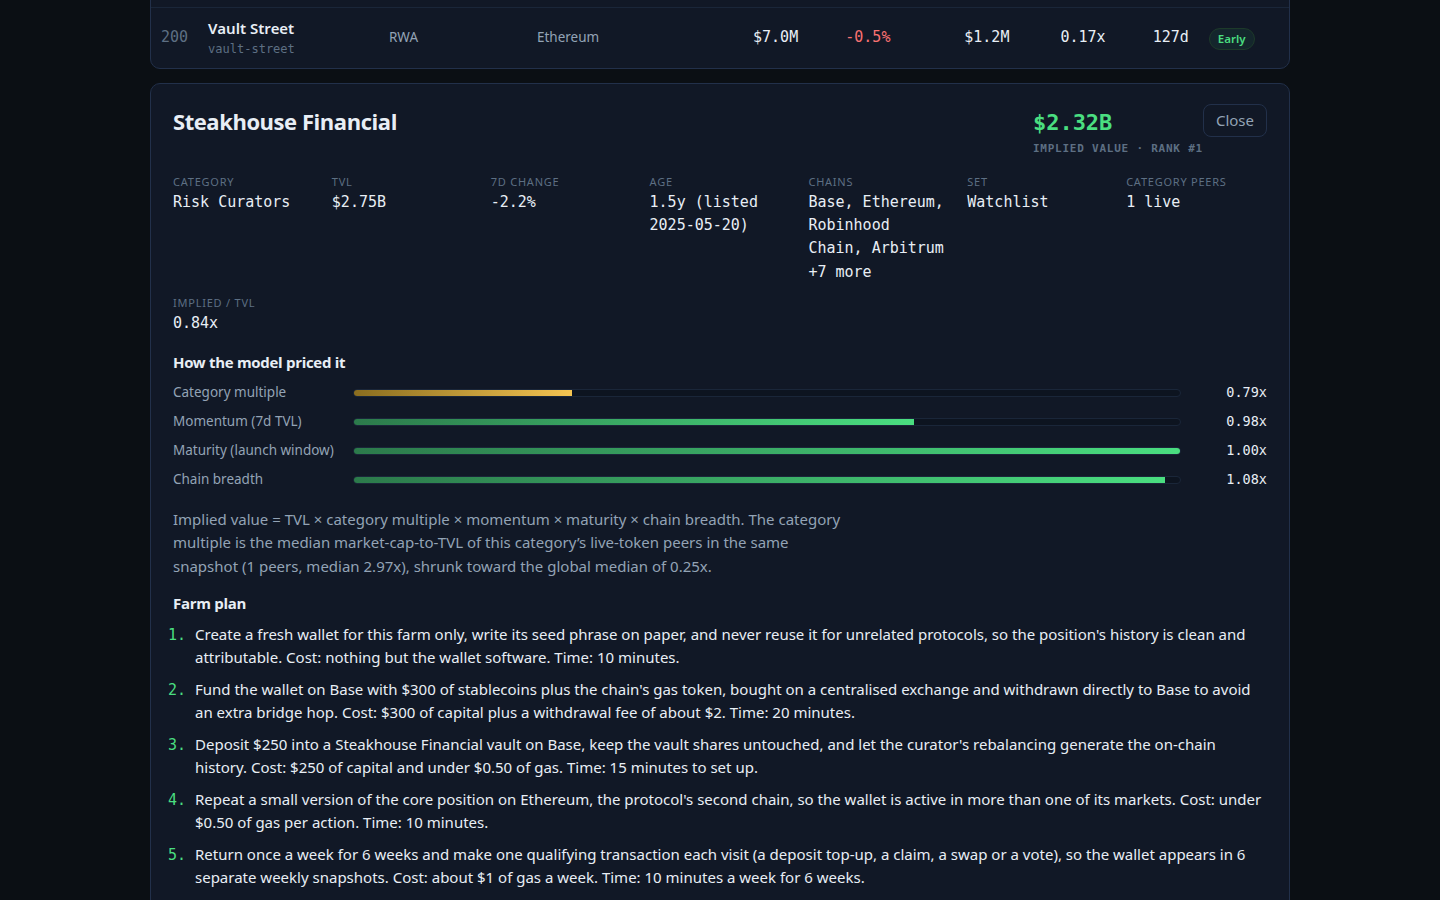
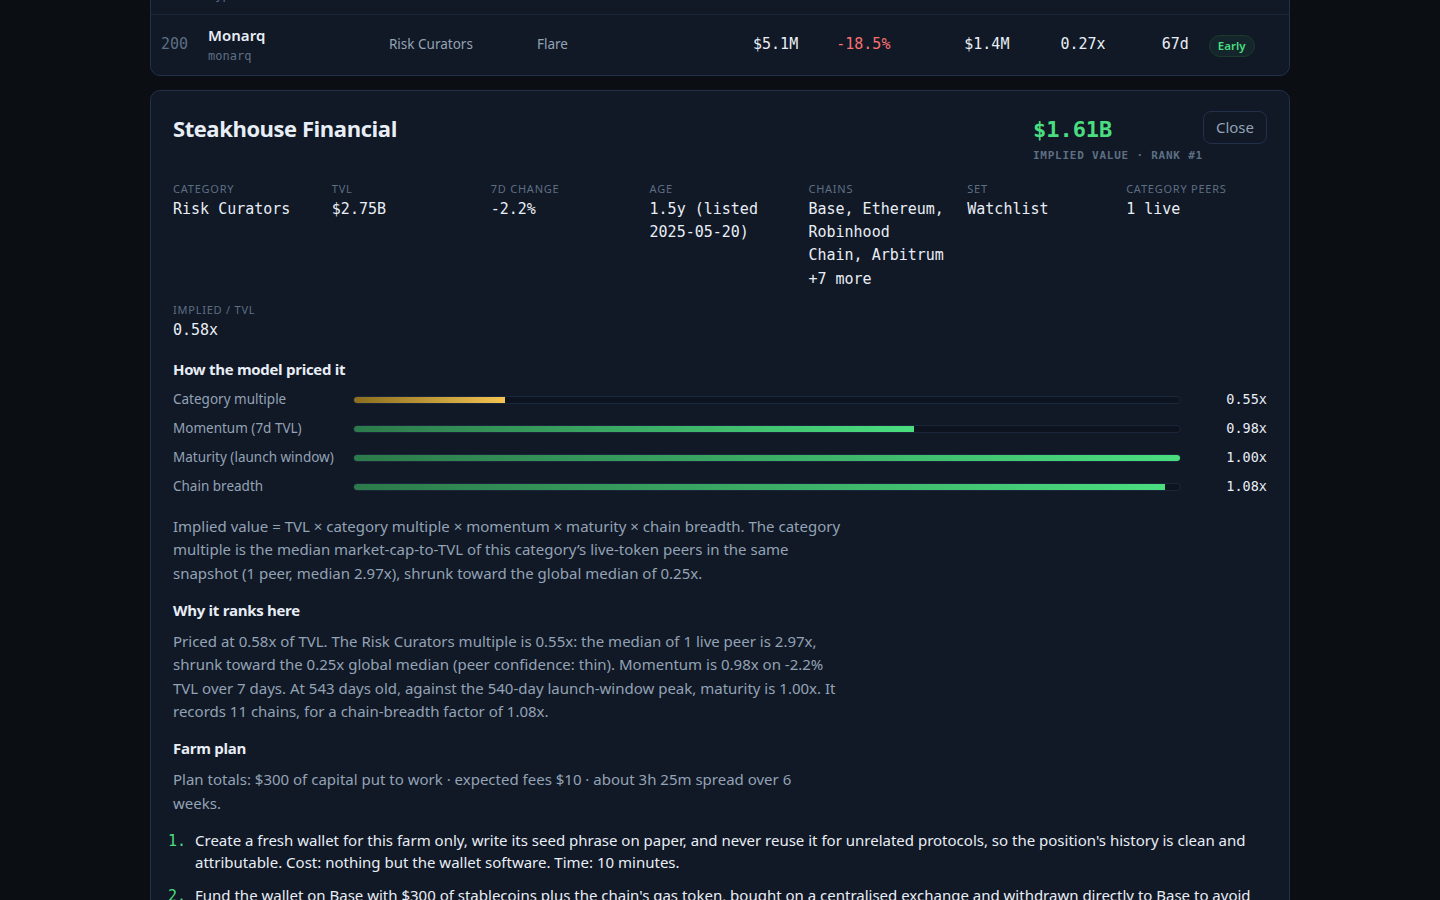
radar-3: confidence-weighted category multiples, per-row why, farm plan totals

diff --git a/lib/model.ts b/lib/model.ts
@@ -1,12 +1,14 @@
-// Token Radar model "radar-2": one sealed snapshot in, one ranked board out.
+// Token Radar model "radar-3": one sealed snapshot in, one ranked board out.
 //
 // Where the house model multiplies every protocol's TVL by one flat constant, this model prices a
 // pre-token protocol the way the snapshot's own market prices its peers:
 //
 //   multiple   = the price-to-TVL multiple of the protocol's category, read off the snapshot's
 //                live-token protocols (median market cap / TVL per category), shrunk toward the
-//                snapshot-wide median when a category has few live peers, so a thin category
-//                cannot produce a wild multiple
+//                snapshot-wide median by the peer count, so a thin category cannot produce a
+//                wild multiple. radar-3 shrinks harder than radar-2 did (k = 8, not 4): a
+//                category priced by a single live peer is a rumour, not a market, and the board
+//                now says so on every row, with the peer count and a confidence word
 //   momentum   = 1 + MOMENTUM_WEIGHT x tanh(change_7d / MOMENTUM_SCALE): a saturating read of the
 //                week's TVL growth, so one freak week cannot dominate the board
 //   maturity   = a log-normal bump peaking at MATURITY_PEAK_DAYS: old enough to be proven, young
@@ -14,6 +16,11 @@
 //                with no token scores lower than one in the launch window, not higher
 //   chainBonus = 1 + CHAIN_BONUS x min(extra chains, 4): a small premium for multi-chain traction
 //   implied    = max(1, round(tvl x multiple x momentum x maturity x chainBonus))
+//
+// Every row also carries the model's working in words (why it ranks where it ranks, from its own
+// four factors and its category's peer count) and its farm plan's totals (capital the plan
+// deploys, the fees it expects to burn, the hours it takes), so a reader never has to take a
+// rank, or a plan, on faith.
 //
 // Every input is a field of the sealed snapshot. No protocol name, slug or category string is ever
 // special-cased in the scoring: the same code path prices every row, and the per-category figures
@@ -67,7 +74,7 @@ export interface ModelConstants {
 }
 
 export const MODEL: ModelConstants = {
-  shrink_k: 4,
+  shrink_k: 8,
   momentum_weight: 0.45,
   momentum_scale: 60,
   maturity_peak_days: 540,
@@ -80,7 +87,7 @@ export const MODEL: ModelConstants = {
 };
 
 /** The model's version label: the dashboard names it and the board rows carry it. */
-export const MODEL_VERSION = 'radar-2';
+export const MODEL_VERSION = 'radar-3';
 
 /** One category's live-peer statistics, computed from the snapshot at run time. */
 export interface CategoryStat {
@@ -95,6 +102,13 @@ export interface FarmStep {
   text: string;
   cost: string;
   time: string;
+}
+
+/** A farm plan's totals: the capital it deploys, the fees it expects to burn, the time it takes. */
+export interface FarmTotal {
+  capital_usd: number;
+  est_fees: string;
+  total_time: string;
 }
 
 /** One row of board.json: the ranked board's row, with the model's working shown. */
@@ -123,7 +137,9 @@ export interface BoardRow {
     maturity_multiplier: number;
     chain_multiplier: number;
   };
+  why: string;
   farm_steps: string[];
+  farm_total: FarmTotal;
 }
 
 /** The dashboard's view of one board row: everything the page renders or recomputes. */
@@ -144,7 +160,9 @@ export interface RadarRow {
   momentum_multiplier: number;
   maturity_multiplier: number;
   chain_multiplier: number;
+  why: string;
   farm_steps: string[];
+  farm_total: FarmTotal;
 }
 
 /** A live-token protocol: it already trades, so the page shows the market's own value. */
@@ -292,6 +310,72 @@ function bySlug(protocols: SnapshotProtocol[]): Map<string, SnapshotProtocol> {
   return new Map(protocols.map((p) => [p.slug, p]));
 }
 
+/** A multiple the way the dashboard prints it: two decimals and an x. */
+const mult2 = (n: number): string => `${n.toFixed(2)}x`;
+
+/** A signed percent with one decimal, the way the dashboard prints a 7d change. */
+const pct1 = (n: number): string => `${n > 0 ? '+' : ''}${n.toFixed(1)}%`;
+
+/** How far a category's own multiple can be trusted, from its live-peer count alone. */
+export function confidenceWord(liveCount: number): string {
+  if (liveCount <= 0) return 'none';
+  if (liveCount <= 2) return 'thin';
+  if (liveCount <= 5) return 'fair';
+  return 'solid';
+}
+
+/**
+ * Why a row ranks where it ranks, in words, from its own four factors and its category's peer
+ * count. Nothing here is looked up by name: the same template reads every row's own figures.
+ */
+export function whyText(
+  p: SnapshotProtocol,
+  priced: Priced,
+  multiples: { global: number; stats: CategoryStat[]; used: Map<string, number> },
+  model: ModelConstants,
+): string {
+  const parts: string[] = [];
+  const effective = p.tvl_usd > 0 ? priced.implied / p.tvl_usd : 0;
+  parts.push(`Priced at ${mult2(effective)} of TVL.`);
+  const stat = p.category === null ? undefined : multiples.stats.find((s) => s.category === p.category);
+  if (p.category === null || stat === undefined) {
+    parts.push(`Its category records no live-token peers in this snapshot, so it is priced at the global median multiple of ${mult2(multiples.global)}.`);
+  } else {
+    parts.push(
+      `The ${p.category} multiple is ${mult2(priced.categoryMultiple)}: the median of ${stat.live_count} live peer${stat.live_count === 1 ? '' : 's'} is ${mult2(stat.median_multiple)}, ` +
+        `shrunk toward the ${mult2(multiples.global)} global median (peer confidence: ${confidenceWord(stat.live_count)}).`,
+    );
+  }
+  if (p.change_7d === null) {
+    parts.push(`No 7d TVL change is recorded, so momentum is neutral at ${mult2(priced.momentumMult)}.`);
+  } else {
+    parts.push(`Momentum is ${mult2(priced.momentumMult)} on ${pct1(p.change_7d)} TVL over 7 days.`);
+  }
+  if (priced.age === null) {
+    parts.push(`No listing date is recorded, so maturity is priced at the assumed ${model.unknown_age_days} days: ${mult2(priced.maturityMult)}.`);
+  } else {
+    parts.push(`At ${priced.age} days old, against the ${model.maturity_peak_days}-day launch-window peak, maturity is ${mult2(priced.maturityMult)}.`);
+  }
+  parts.push(`It records ${p.chains.length} chain${p.chains.length === 1 ? '' : 's'}, for a chain-breadth factor of ${mult2(priced.chainMult)}.`);
+  return parts.join(' ');
+}
+
+/**
+ * A farm plan's totals, from the same figures its steps are priced with: the capital the plan
+ * puts to work (position plus funding buffer), the fees its transactions are expected to burn
+ * (withdrawal, setup, the weekly visits, the two-tranche unwind), and the hours it takes.
+ */
+export function farmTotals(p: SnapshotProtocol, age: number | null): FarmTotal {
+  const capital = capitalFor(p);
+  const weeks = weeksFor(age);
+  const mainnet = isMainnet(chainOf(p));
+  const low = Math.round((mainnet ? 5 : 2) + (mainnet ? 5 : 0.5) + (mainnet ? 8 : 1) * weeks + (mainnet ? 10 : 1));
+  const high = Math.round((mainnet ? 5 : 2) + (mainnet ? 15 : 0.5) + (mainnet ? 8 : 1) * weeks + (mainnet ? 30 : 1));
+  const minutes = 55 + 20 * weeks + 30;
+  const time = minutes >= 60 ? `about ${Math.floor(minutes / 60)}h ${minutes % 60 === 0 ? '' : `${minutes % 60}m `}spread over ${weeks} weeks` : `about ${minutes}m spread over ${weeks} weeks`;
+  return { capital_usd: capital + 50, est_fees: low === high ? `$${low}` : `$${low} to $${high}`, total_time: time.trim() };
+}
+
 /** The protocols the board ranks, strongest first, with ranks 1..n. */
 export function buildBoard(snapshot: Snapshot, model: ModelConstants = MODEL): BoardRow[] {
   const index = bySlug(snapshot.protocols);
@@ -343,6 +427,8 @@ export function buildBoard(snapshot: Snapshot, model: ModelConstants = MODEL): B
       chain_multiplier: round4(s.priced.chainMult),
     },
     farm_steps: farmSteps(s.p, s.priced.age).map(stepText),
+    why: whyText(s.p, s.priced, multiples, model),
+    farm_total: farmTotals(s.p, s.priced.age),
   }));
 }
 
@@ -514,7 +600,9 @@ export function radarRow(row: BoardRow): RadarRow {
     momentum_multiplier: row.model.momentum_multiplier,
     maturity_multiplier: row.model.maturity_multiplier,
     chain_multiplier: row.model.chain_multiplier,
+    why: row.why,
     farm_steps: row.farm_steps,
+    farm_total: row.farm_total,
   };
 }
 

diff --git a/dashboard/app.js b/dashboard/app.js
@@ -1,4 +1,4 @@
-// Token Launch Radar dashboard (model radar-2).
+// Token Launch Radar dashboard (model radar-3).
 //
 // Reads window.RADAR from ../data.js (written by main.ts beside dashboard/) and renders three
 // views: the ranked board with filters and a per-protocol detail panel, the live-token peer set
@@ -252,10 +252,19 @@
     panel.appendChild(el('p', { class: 'view-note', text:
       'Implied value = TVL \u00D7 category multiple \u00D7 momentum \u00D7 maturity \u00D7 chain breadth. ' +
       'The category multiple is the median market-cap-to-TVL of this category\u2019s live-token peers in the same snapshot' +
-      (cat ? ' (' + cat.live_count + ' peers, median ' + fmtMult(cat.median_multiple) + ')' : '') +
+      (cat ? ' (' + cat.live_count + ' peer' + (cat.live_count === 1 ? '' : 's') + ', median ' + fmtMult(cat.median_multiple) + ')' : '') +
       ', shrunk toward the global median of ' + fmtMult(DATA.global_multiple) + '.' }));
+    if (row.why) {
+      panel.appendChild(el('h3', { text: 'Why it ranks here' }));
+      panel.appendChild(el('p', { class: 'view-note', text: row.why }));
+    }
 
     panel.appendChild(el('h3', { text: 'Farm plan' }));
+    if (row.farm_total) {
+      panel.appendChild(el('p', { class: 'view-note', text:
+        'Plan totals: ' + fmtUsd(row.farm_total.capital_usd) + ' of capital put to work \u00B7 expected fees ' +
+        row.farm_total.est_fees + ' \u00B7 ' + row.farm_total.total_time + '.' }));
+    }
     var list = el('ol', { class: 'farm' });
     row.farm_steps.forEach(function (s) { list.appendChild(el('li', { text: s })); });
     panel.appendChild(list);
@@ -287,7 +296,7 @@
     formula.innerHTML = 'implied = TVL &times; <span class="hl">category multiple</span> &times; <span class="hl">momentum</span> &times; <span class="hl">maturity</span> &times; <span class="hl">chain breadth</span>';
     box.appendChild(formula);
     var cards = [
-      ['Category multiple', 'The snapshot\u2019s live-token protocols are the market\u2019s own answer to \u201Cwhat is a dollar of TVL worth here?\u201D For each category the model takes the median market-cap-to-TVL of its live peers, then shrinks it toward the global median (' + fmtMult(DATA.global_multiple) + ') by the peer count, so a category with two peers cannot set a wild price. Capped between 0.05x and 3x.'],
+      ['Category multiple', 'The snapshot\u2019s live-token protocols are the market\u2019s own answer to \u201Cwhat is a dollar of TVL worth here?\u201D For each category the model takes the median market-cap-to-TVL of its live peers, then shrinks it toward the global median (' + fmtMult(DATA.global_multiple) + ') with a strength of ' + MODEL.shrink_k + ' phantom peers, so a category priced by one or two peers cannot set a wild price. Every row states its peer count and a confidence word (thin, fair, solid), and its detail view shows the shrinkage in words. Capped between 0.05x and 3x.'],
       ['Momentum', 'One week of TVL growth, passed through a saturating curve: 1 + ' + MODEL.momentum_weight + ' \u00D7 tanh(change / ' + MODEL.momentum_scale + '). A protocol doubling in a week earns most of the +' + Math.round(MODEL.momentum_weight * 100) + '% swing; a protocol up 400% earns barely more, so a single freak week cannot buy the top of the board.'],
       ['Maturity', 'A log-normal bump peaking at ' + MODEL.maturity_peak_days + ' days. Younger protocols are unproven; much older ones have had years to launch and have not, which is itself information. The floor is ' + MODEL.maturity_floor + 'x, so age alone never zeroes a row. Unknown listing dates are priced at ' + MODEL.unknown_age_days + ' days.'],
       ['Chain breadth', '+' + Math.round(MODEL.chain_bonus * 100) + '% per additional chain, up to four. Multi-chain traction is a weak but real signal that a protocol is winning distribution, priced small enough that it breaks ties rather than making them.'],

diff --git a/dashboard/index.html b/dashboard/index.html
@@ -3,7 +3,7 @@
 <head>
 <meta charset="utf-8">
 <meta name="viewport" content="width=device-width, initial-scale=1">
-<title>Token Launch Radar — radar-2</title>
+<title>Token Launch Radar — radar-3</title>
 <link rel="stylesheet" href="app.css">
 </head>
 <body>
@@ -13,7 +13,7 @@
       <span class="brand-mark" aria-hidden="true"></span>
       <div>
         <h1>Token Launch Radar</h1>
-        <p class="tagline">Pre-token protocols, priced by the market's own multiples — model <strong id="model-version">radar-2</strong></p>
+        <p class="tagline">Pre-token protocols, priced by the market's own multiples — model <strong id="model-version">radar-3</strong></p>
       </div>
     </div>
     <dl class="head-stats" id="head-stats"></dl>
@@ -86,7 +86,7 @@
       <h2>Model sandbox</h2>
       <p class="sandbox-note">Move a constant and the whole board re-prices and re-ranks in the page, using the same
         formula as <code>lib/model.ts</code>. The board above always shows the submitted model; the sandbox shows the rank each
-        row would take under your constants. <button type="button" id="sandbox-reset" class="linklike">Reset to radar-2</button></p>
+        row would take under your constants. <button type="button" id="sandbox-reset" class="linklike">Reset to radar-3</button></p>
       <div class="sliders">
         <label class="slider">Momentum weight <output id="o-momentum"></output>
           <input type="range" id="s-momentum" min="0" max="0.9" step="0.05">

diff --git a/main.ts b/main.ts
@@ -1,4 +1,4 @@
-// Token Radar (model radar-2): the entrypoint the grader runs.
+// Token Radar (model radar-3): the entrypoint the grader runs.
 //
 //   node main.ts --input /input/snapshot.json        (output defaults to /output)
 //

diff --git a/README.md b/README.md
@@ -6,9 +6,9 @@
 
 A dynamic token launch radar that ranks pre-token protocols by an implied value derived from TVL, growth and time without a token, with a concrete farm plan for every row.
 
-## The model (radar-2)
+## The model (radar-3)
 
-Where a flat model multiplies every protocol's TVL by one constant, radar-2 prices each pre-token
+Where a flat model multiplies every protocol's TVL by one constant, radar-3 prices each pre-token
 protocol the way the snapshot's own market prices its peers:
 
 ```
@@ -16,14 +16,34 @@ implied = TVL x category multiple x momentum x maturity x chain breadth
 ```
 
 - **Category multiple** — the median market-cap-to-TVL of the category's live-token protocols in the
-  same snapshot, shrunk toward the snapshot-wide median by the peer count (thin categories cannot
-  set wild prices), capped to [0.05, 3].
+  same snapshot, shrunk toward the snapshot-wide median with a strength of 8 phantom peers, capped
+  to [0.05, 3]. radar-3 shrinks harder than radar-2 did: a category priced by a single live peer is
+  a rumour, not a market, so thin categories are pulled much closer to the global median — and
+  every row states its peer count and a confidence word (thin / fair / solid) instead of hiding it.
 - **Momentum** — `1 + 0.45 x tanh(change_7d / 60)`: a saturating read of the week's TVL growth, so
   one freak week cannot buy the top of the board.
 - **Maturity** — a log-normal bump peaking at 540 days: proven enough to be real, young enough that
   a token is still plausibly ahead. Protocols that have run for years with no token score lower,
   not higher.
 - **Chain breadth** — +2% per additional chain, up to four.
+
+New in radar-3: every row explains itself. The board carries a **"why it ranks here"** paragraph
+per protocol, written from its own four factors and its category's peer count, and every farm plan
+carries **totals** — the capital the plan puts to work, the fees its transactions are expected to
+burn, and the hours it takes — so neither a rank nor a plan has to be taken on faith.
+
+On the sealed snapshot the top of the board is:
+
+| # | Protocol | Category | TVL | Implied value |
+|---|----------|----------|-----|---------------|
+| 1 | Steakhouse Financial | Risk Curators | $2.75B | $1.61B |
+| 2 | Gauntlet | Risk Curators | $1.58B | $975.2M |
+| 3 | Veda | Onchain Capital Allocator | $1.56B | $313.3M |
+| 4 | USDD | CDP | $1.06B | $240.6M |
+| 5 | Nonce Capital | Risk Curators | $513.8M | $148.5M |
+
+Note what the harder shrinkage did: Steakhouse still leads — its TVL is real — but at 0.58x of TVL
+rather than radar-2's 0.84x, because its category's 2.97x median rests on exactly one live peer.
 
 The board covers the full 40-protocol watchlist and adds a 160-row early radar chosen by implied
 value from below the watchlist floor. Every row carries an eight-step farm plan (wallet setup,
